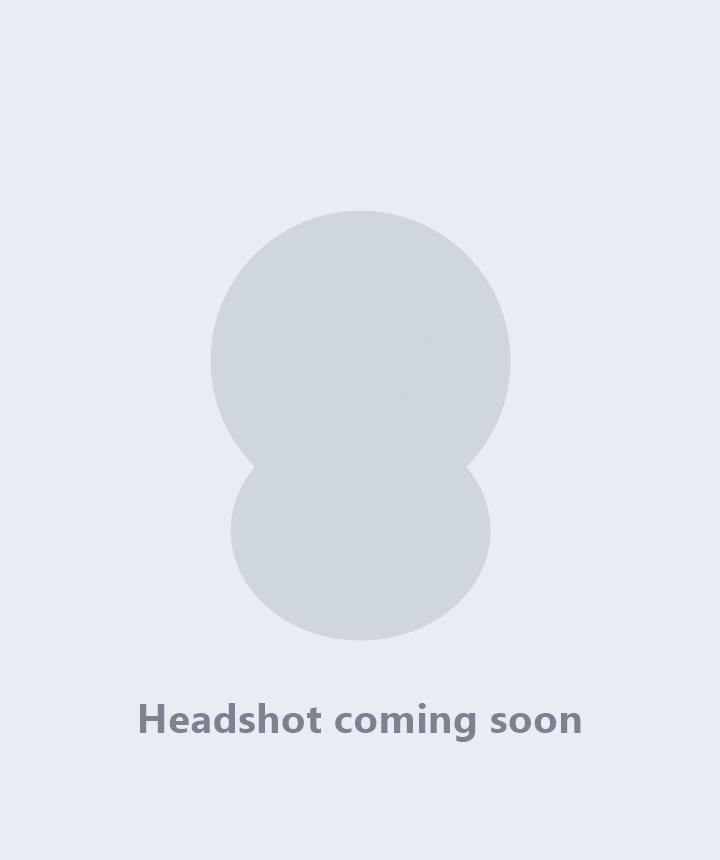
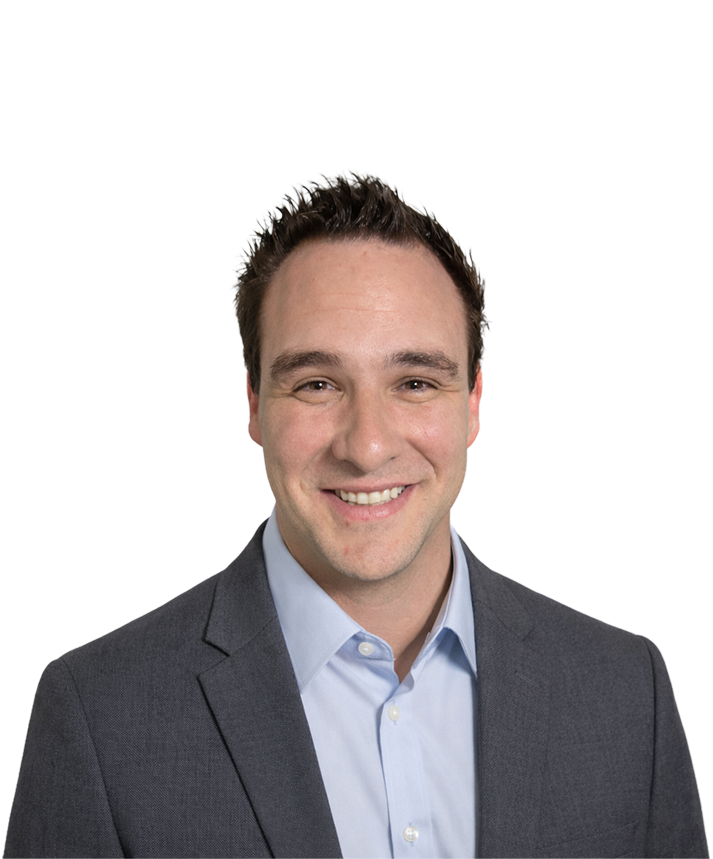
Add real founder headshot
Replace the placeholder with the actual photo (public/joseph-headshot.png)
and match the Image intrinsic dimensions (713x859).

diff --git a/src/components/founder.tsx b/src/components/founder.tsx
@@ -39,8 +39,8 @@ export function Founder() {
               <Image
                 src="/joseph-headshot.png"
                 alt="Joseph Sardella, founder of ThinkBigJoe"
-                width={720}
-                height={860}
+                width={713}
+                height={859}
                 priority
                 className="h-auto w-full object-cover"
               />
